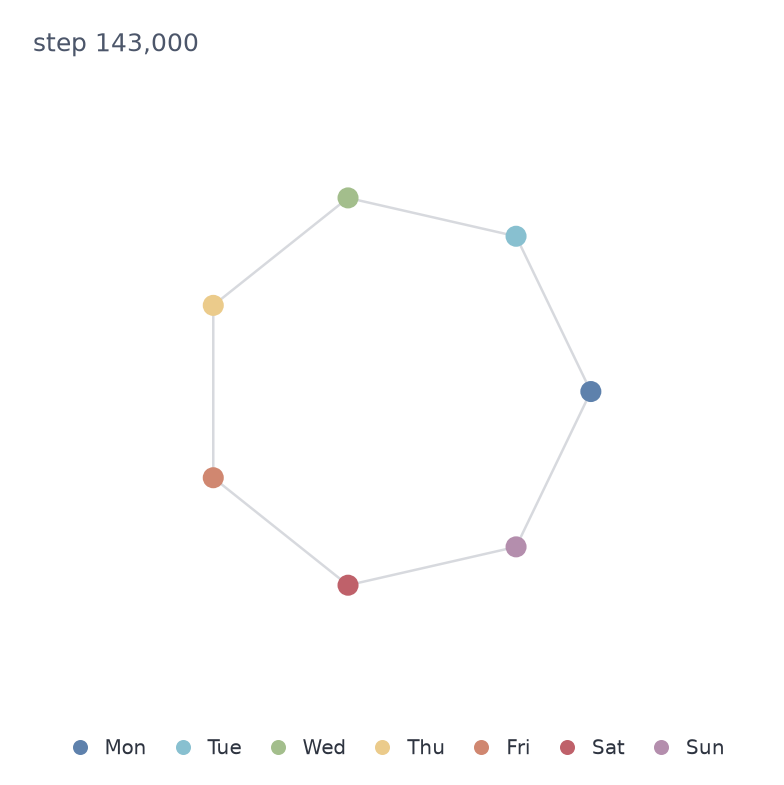
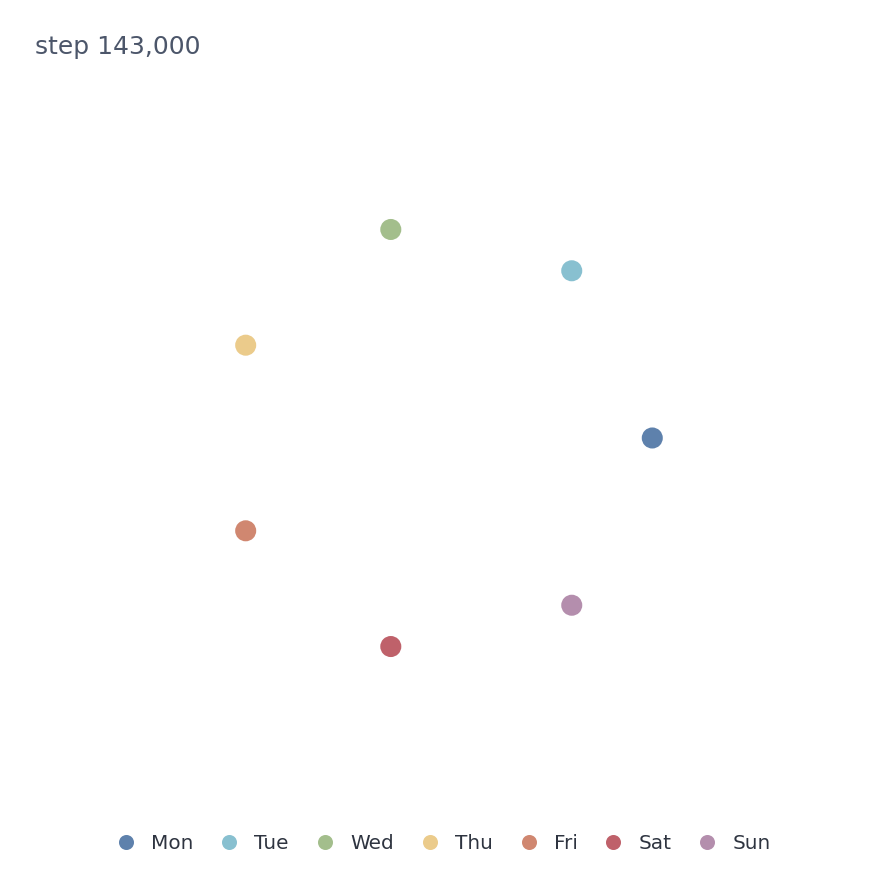
Replace weekday video with measured-checkpoint GIF

diff --git a/blog/vi/index.html b/blog/vi/index.html
@@ -209,15 +209,10 @@
             transform: translateX(-50%);
         }
 
-        .experiment-figure img,
-        .experiment-figure video {
+        .experiment-figure img {
             display: block;
             width: 100%;
             height: auto;
-        }
-
-        .experiment-figure video {
-            background: #fff;
         }
 
         .experiment-figure--movie {
@@ -458,12 +453,9 @@
                 </p>
 
                 <figure class="experiment-figure experiment-figure--movie">
-                    <video id="weekday-formation-video" muted playsinline controls preload="metadata" poster="/blog/vi/assets/pythia-weekday-formation-poster.png">
-                        <source src="/blog/vi/assets/pythia-weekday-formation.mp4" type="video/mp4">
-                        <a href="/blog/vi/assets/pythia-weekday-formation.mp4">Watch the weekday-geometry animation.</a>
-                    </video>
+                    <img src="/blog/vi/assets/pythia-weekday-formation.gif" alt="Weekday activation scatter plots at eight measured Pythia 410M pretraining checkpoints.">
                     <figcaption>
-                        Weekday activations in layer 8 of Pythia 410M across eight pretraining checkpoints.<sup><a class="reference-mark" href="#ref-10">10</a></sup> Faint points are four prompt contexts for each day, and larger points are their centroids. A phase decoder fitted only at the final checkpoint defines the displayed plane and is applied unchanged to every earlier activation. Motion between measured checkpoints is interpolated.
+                        Weekday activations in layer 8 of Pythia 410M across eight pretraining checkpoints.<sup><a class="reference-mark" href="#ref-10">10</a></sup> Faint points are four prompt contexts for each day, and larger points are their centroids. A phase decoder fitted only at the final checkpoint defines the displayed plane and is applied unchanged to every earlier activation. Every frame is a saved checkpoint; no positions between checkpoints are synthesized.
                     </figcaption>
                 </figure>
 
@@ -715,27 +707,6 @@
             updateActiveSection();
         })();
 
-        (function() {
-            var video = document.getElementById("weekday-formation-video");
-            if (!video) return;
-            if (window.matchMedia("(prefers-reduced-motion: reduce)").matches) return;
-
-            function playOnce() {
-                video.play().catch(function() {});
-            }
-
-            if (!("IntersectionObserver" in window)) {
-                playOnce();
-                return;
-            }
-
-            var observer = new IntersectionObserver(function(entries) {
-                if (!entries[0].isIntersecting) return;
-                observer.disconnect();
-                playOnce();
-            }, { threshold: 0.55 });
-            observer.observe(video);
-        })();
     </script>
 </body>
 </html>
